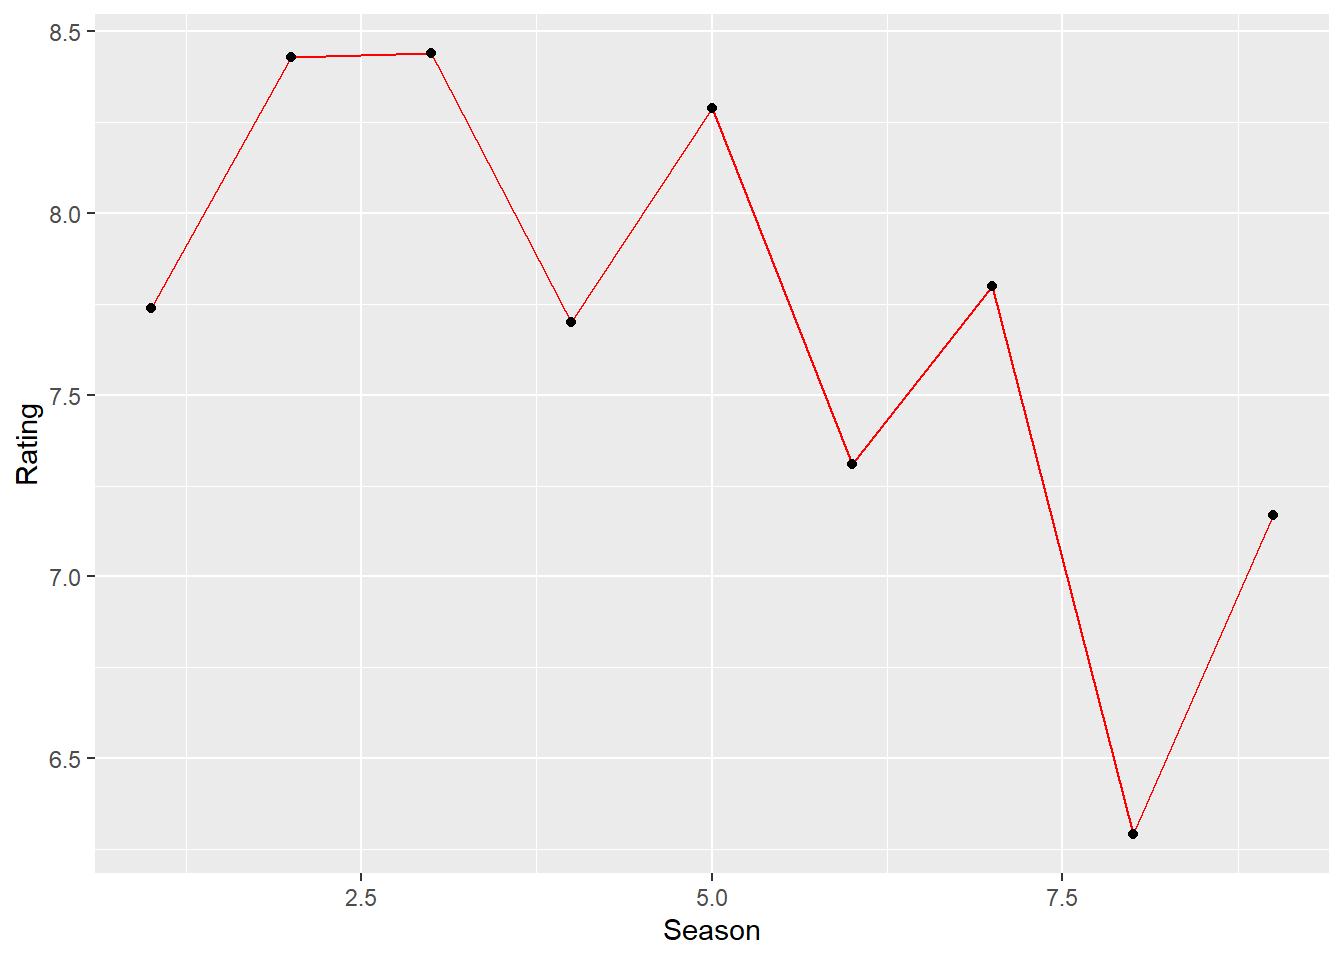
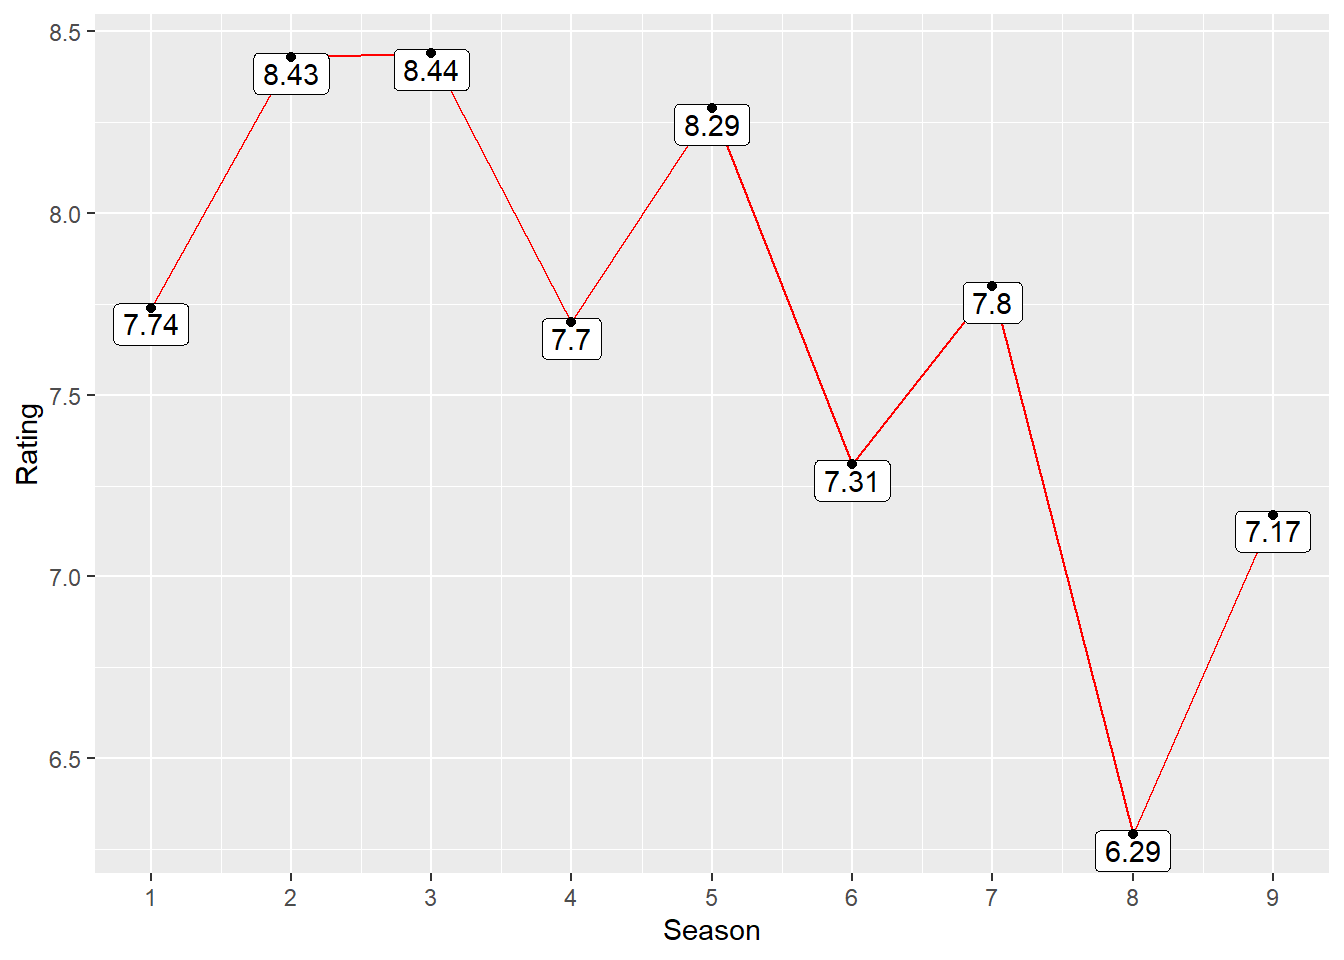
Season_to_Season graph

diff --git a/RR_8_AleksanderKarbowiak_454783.html b/RR_8_AleksanderKarbowiak_454783.html
@@ -209,9 +209,10 @@ code span.wa { color: #60a0b0; font-weight: bold; font-style: italic; } /* Warni
 <section id="rating-over-seasons" class="level2">
 <h2 class="anchored" data-anchor-id="rating-over-seasons">Rating over seasons</h2>
 <div class="cell">
-<div class="sourceCode cell-code" id="cb2"><pre class="sourceCode r code-with-copy"><code class="sourceCode r"><span id="cb2-1"><a href="#cb2-1" aria-hidden="true" tabindex="-1"></a><span class="fu">ggplot</span>(<span class="at">data=</span>data_office, <span class="fu">aes</span>(<span class="at">x=</span>Season, <span class="at">y=</span>Rating, <span class="at">group=</span><span class="dv">1</span>)) <span class="sc">+</span></span>
-<span id="cb2-2"><a href="#cb2-2" aria-hidden="true" tabindex="-1"></a>  <span class="fu">geom_line</span>(<span class="at">color=</span><span class="st">"red"</span>)<span class="sc">+</span></span>
-<span id="cb2-3"><a href="#cb2-3" aria-hidden="true" tabindex="-1"></a>  <span class="fu">geom_point</span>()</span></code><button title="Copy to Clipboard" class="code-copy-button"><i class="bi"></i></button></pre></div>
+<div class="sourceCode cell-code" id="cb2"><pre class="sourceCode r code-with-copy"><code class="sourceCode r"><span id="cb2-1"><a href="#cb2-1" aria-hidden="true" tabindex="-1"></a><span class="fu">ggplot</span>(<span class="at">data=</span>data_office, <span class="fu">aes</span>(<span class="at">x=</span>Season, <span class="at">y=</span>Rating)) <span class="sc">+</span></span>
+<span id="cb2-2"><a href="#cb2-2" aria-hidden="true" tabindex="-1"></a>  <span class="fu">geom_line</span>(<span class="at">color=</span><span class="st">"red"</span>) <span class="sc">+</span>  </span>
+<span id="cb2-3"><a href="#cb2-3" aria-hidden="true" tabindex="-1"></a>  <span class="fu">geom_label</span>(<span class="at">label =</span> data_office<span class="sc">$</span>Rating, <span class="at">vjust=</span><span class="fl">0.9</span>) <span class="sc">+</span></span>
+<span id="cb2-4"><a href="#cb2-4" aria-hidden="true" tabindex="-1"></a>  <span class="fu">geom_point</span>() <span class="sc">+</span> <span class="fu">scale_x_continuous</span>(<span class="at">breaks =</span> <span class="dv">1</span><span class="sc">:</span><span class="dv">9</span>)</span></code><button title="Copy to Clipboard" class="code-copy-button"><i class="bi"></i></button></pre></div>
 <div class="cell-output-display">
 <p><img src="RR_8_AleksanderKarbowiak_454783_files/figure-html/unnamed-chunk-3-1.png" class="img-fluid" width="672"></p>
 </div>
